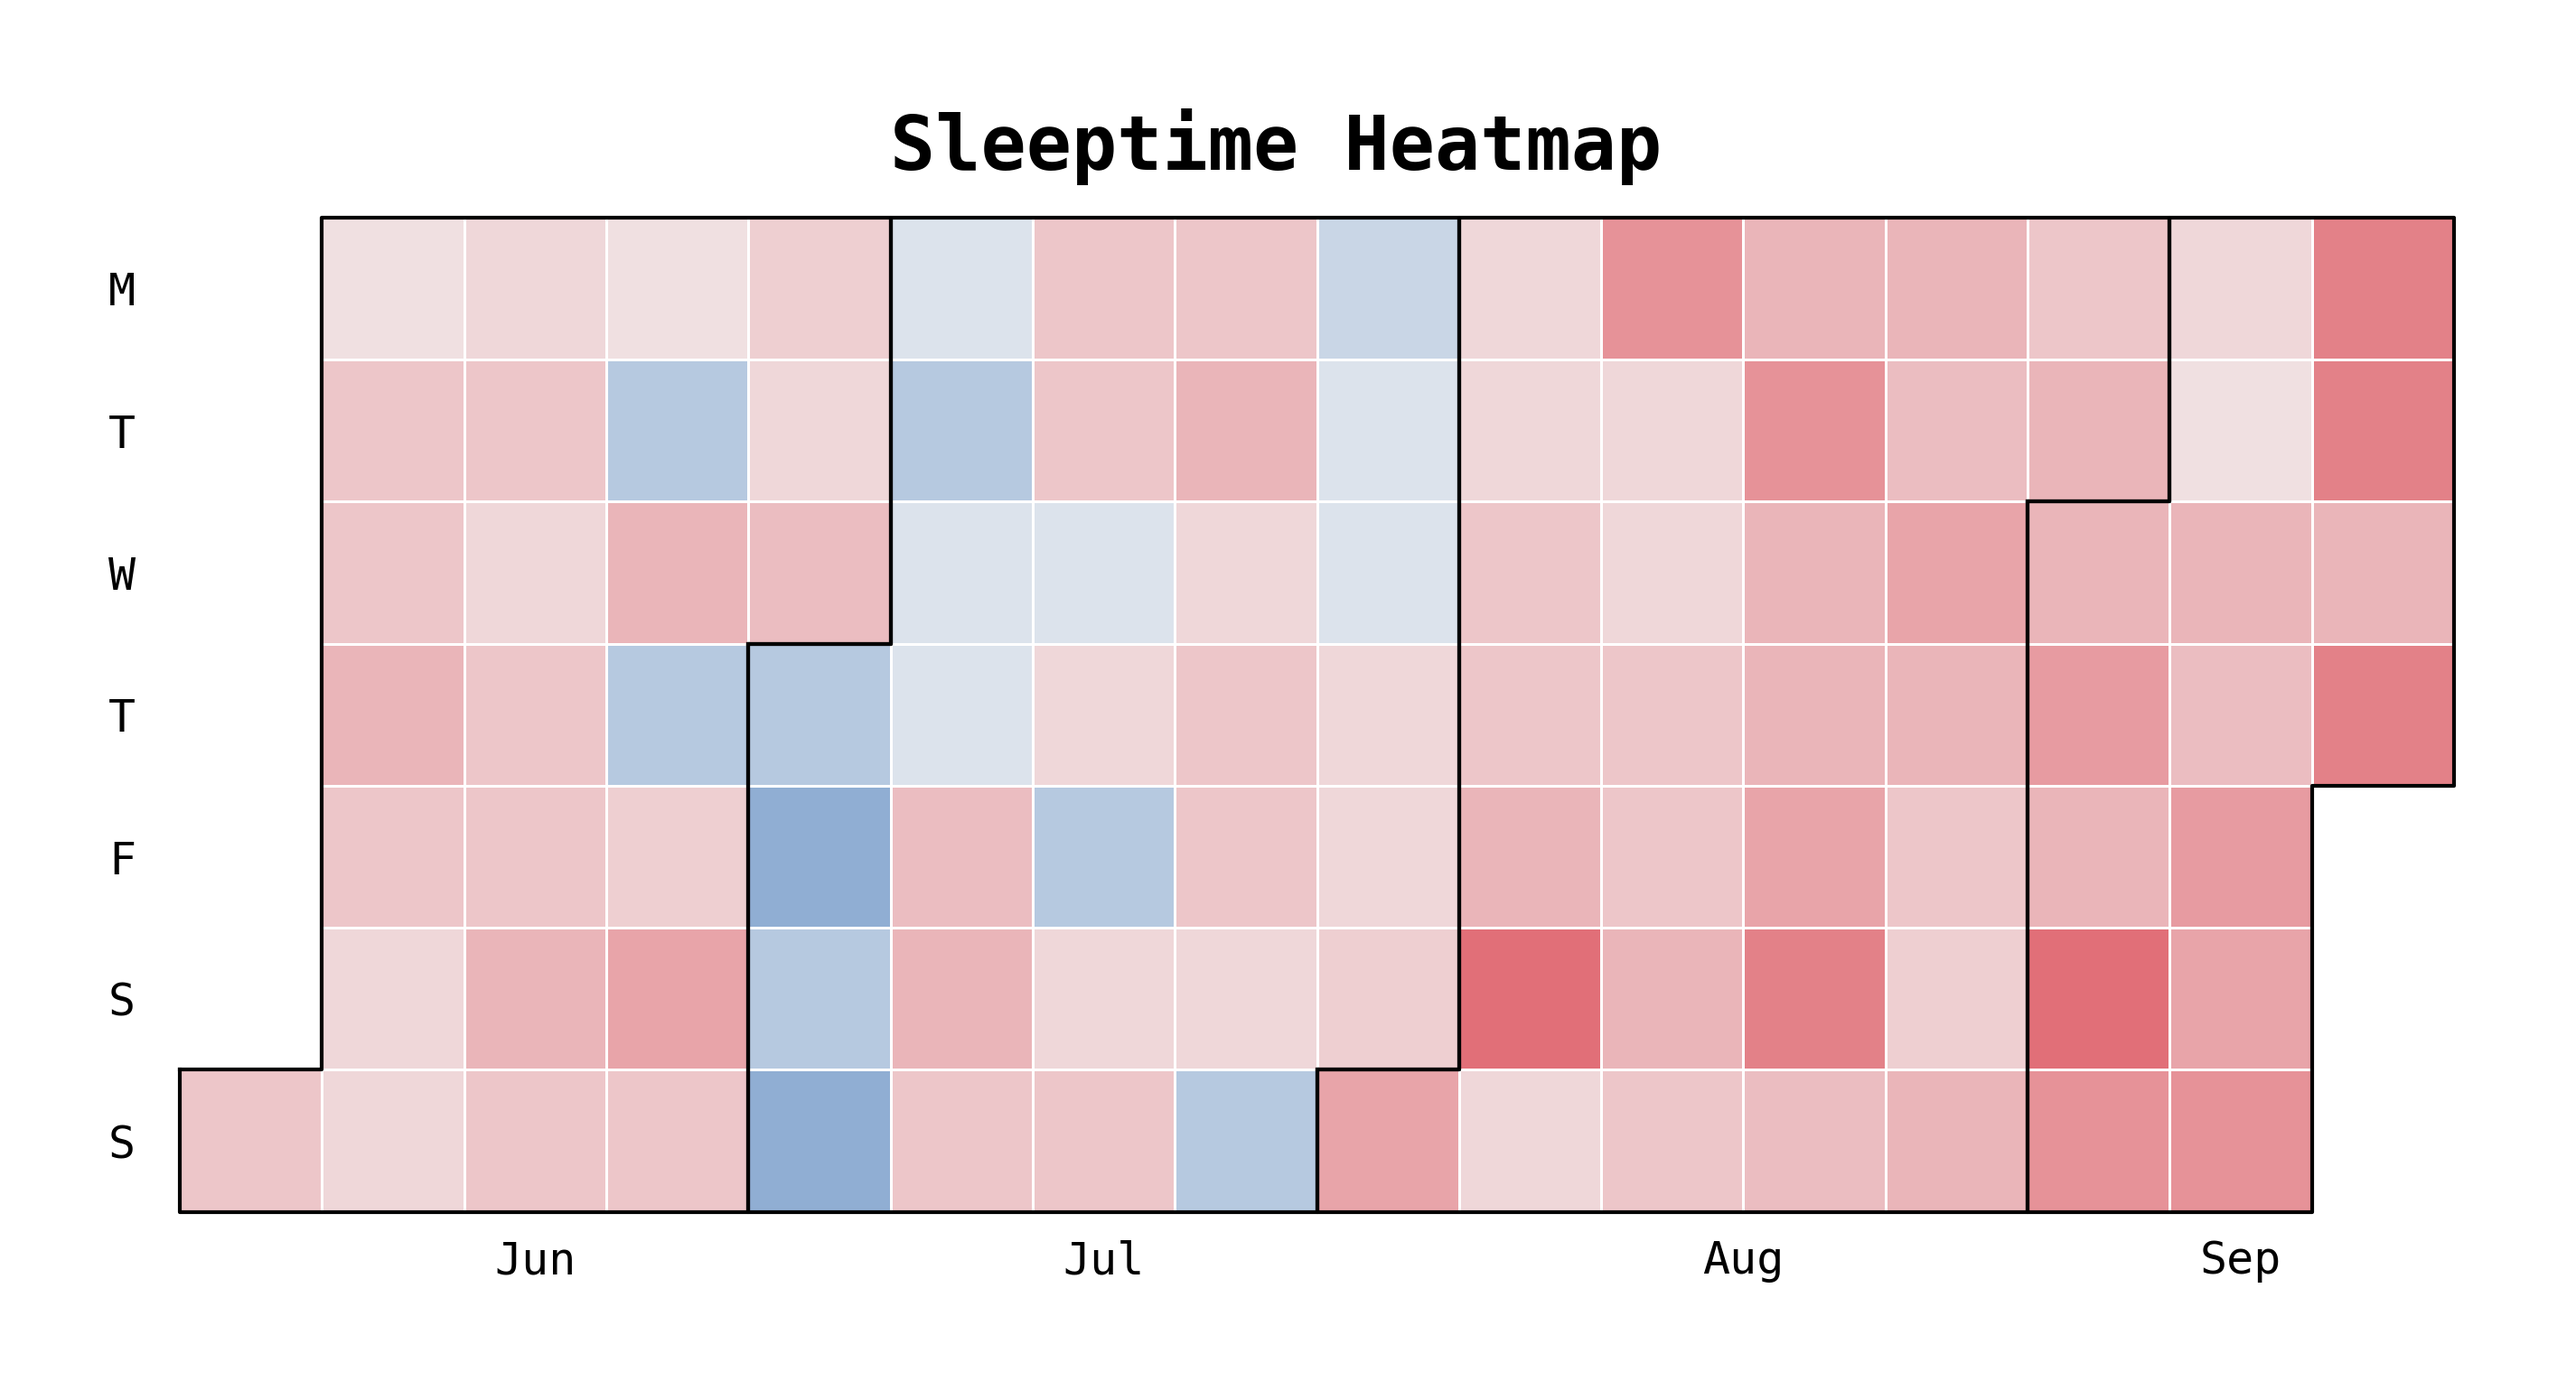
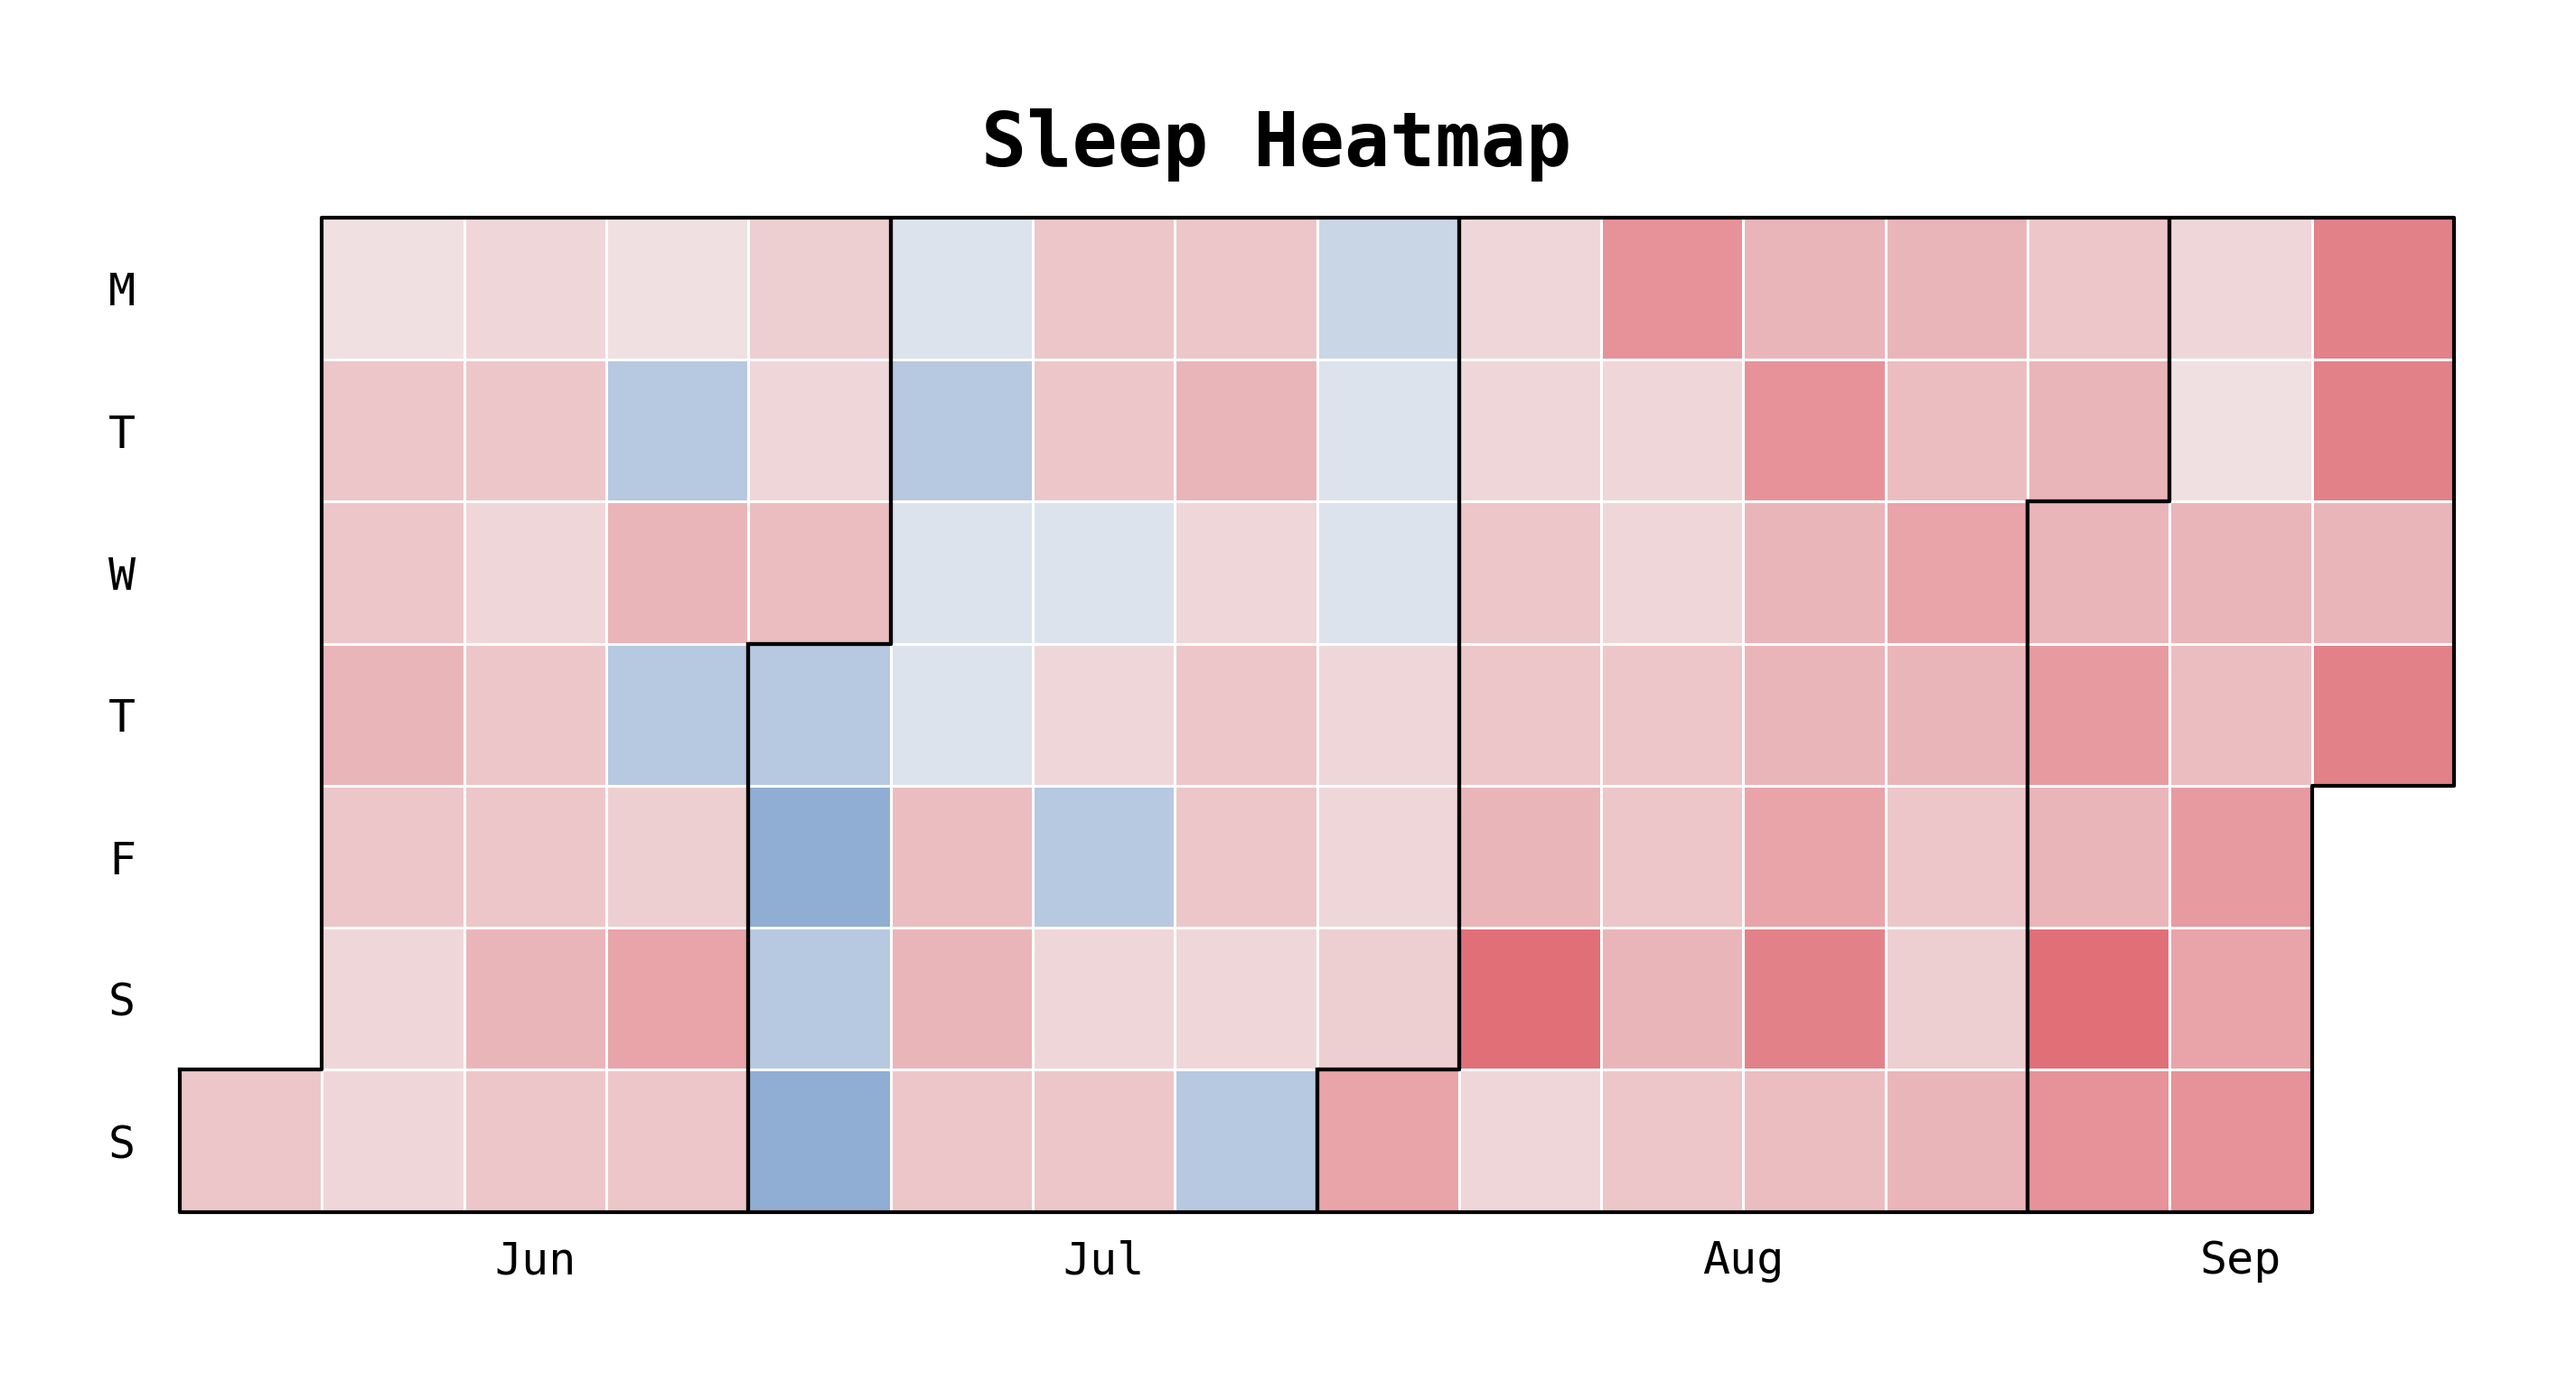
update suptitle

Changed region(s): [[0.3434, 0.0623, 0.6556, 0.1247]]

diff --git a/sleepheatmap.py b/sleepheatmap.py
@@ -39,5 +39,5 @@ sleeptime.head()
 fig = plt.figure(facecolor='white')
 # july argument: show monthly grid, use custom cmap, threshold: -2 < gap < 4
 ax = july.heatmap(dates, sleeptime, year_label=False, month_grid=True, cmap=cmap_sb_custom, cmin=-2, cmax=4)
-plt.suptitle('Sleeptime Heatmap', y=0.95, fontsize=20, fontweight='bold')
+plt.suptitle('Sleep Heatmap', y=0.95, fontsize=20, fontweight='bold')
 plt.savefig('heatmap.png', facecolor=fig.get_facecolor(),edgecolor='none', bbox_inches='tight', pad_inches=0.4, dpi=300)
